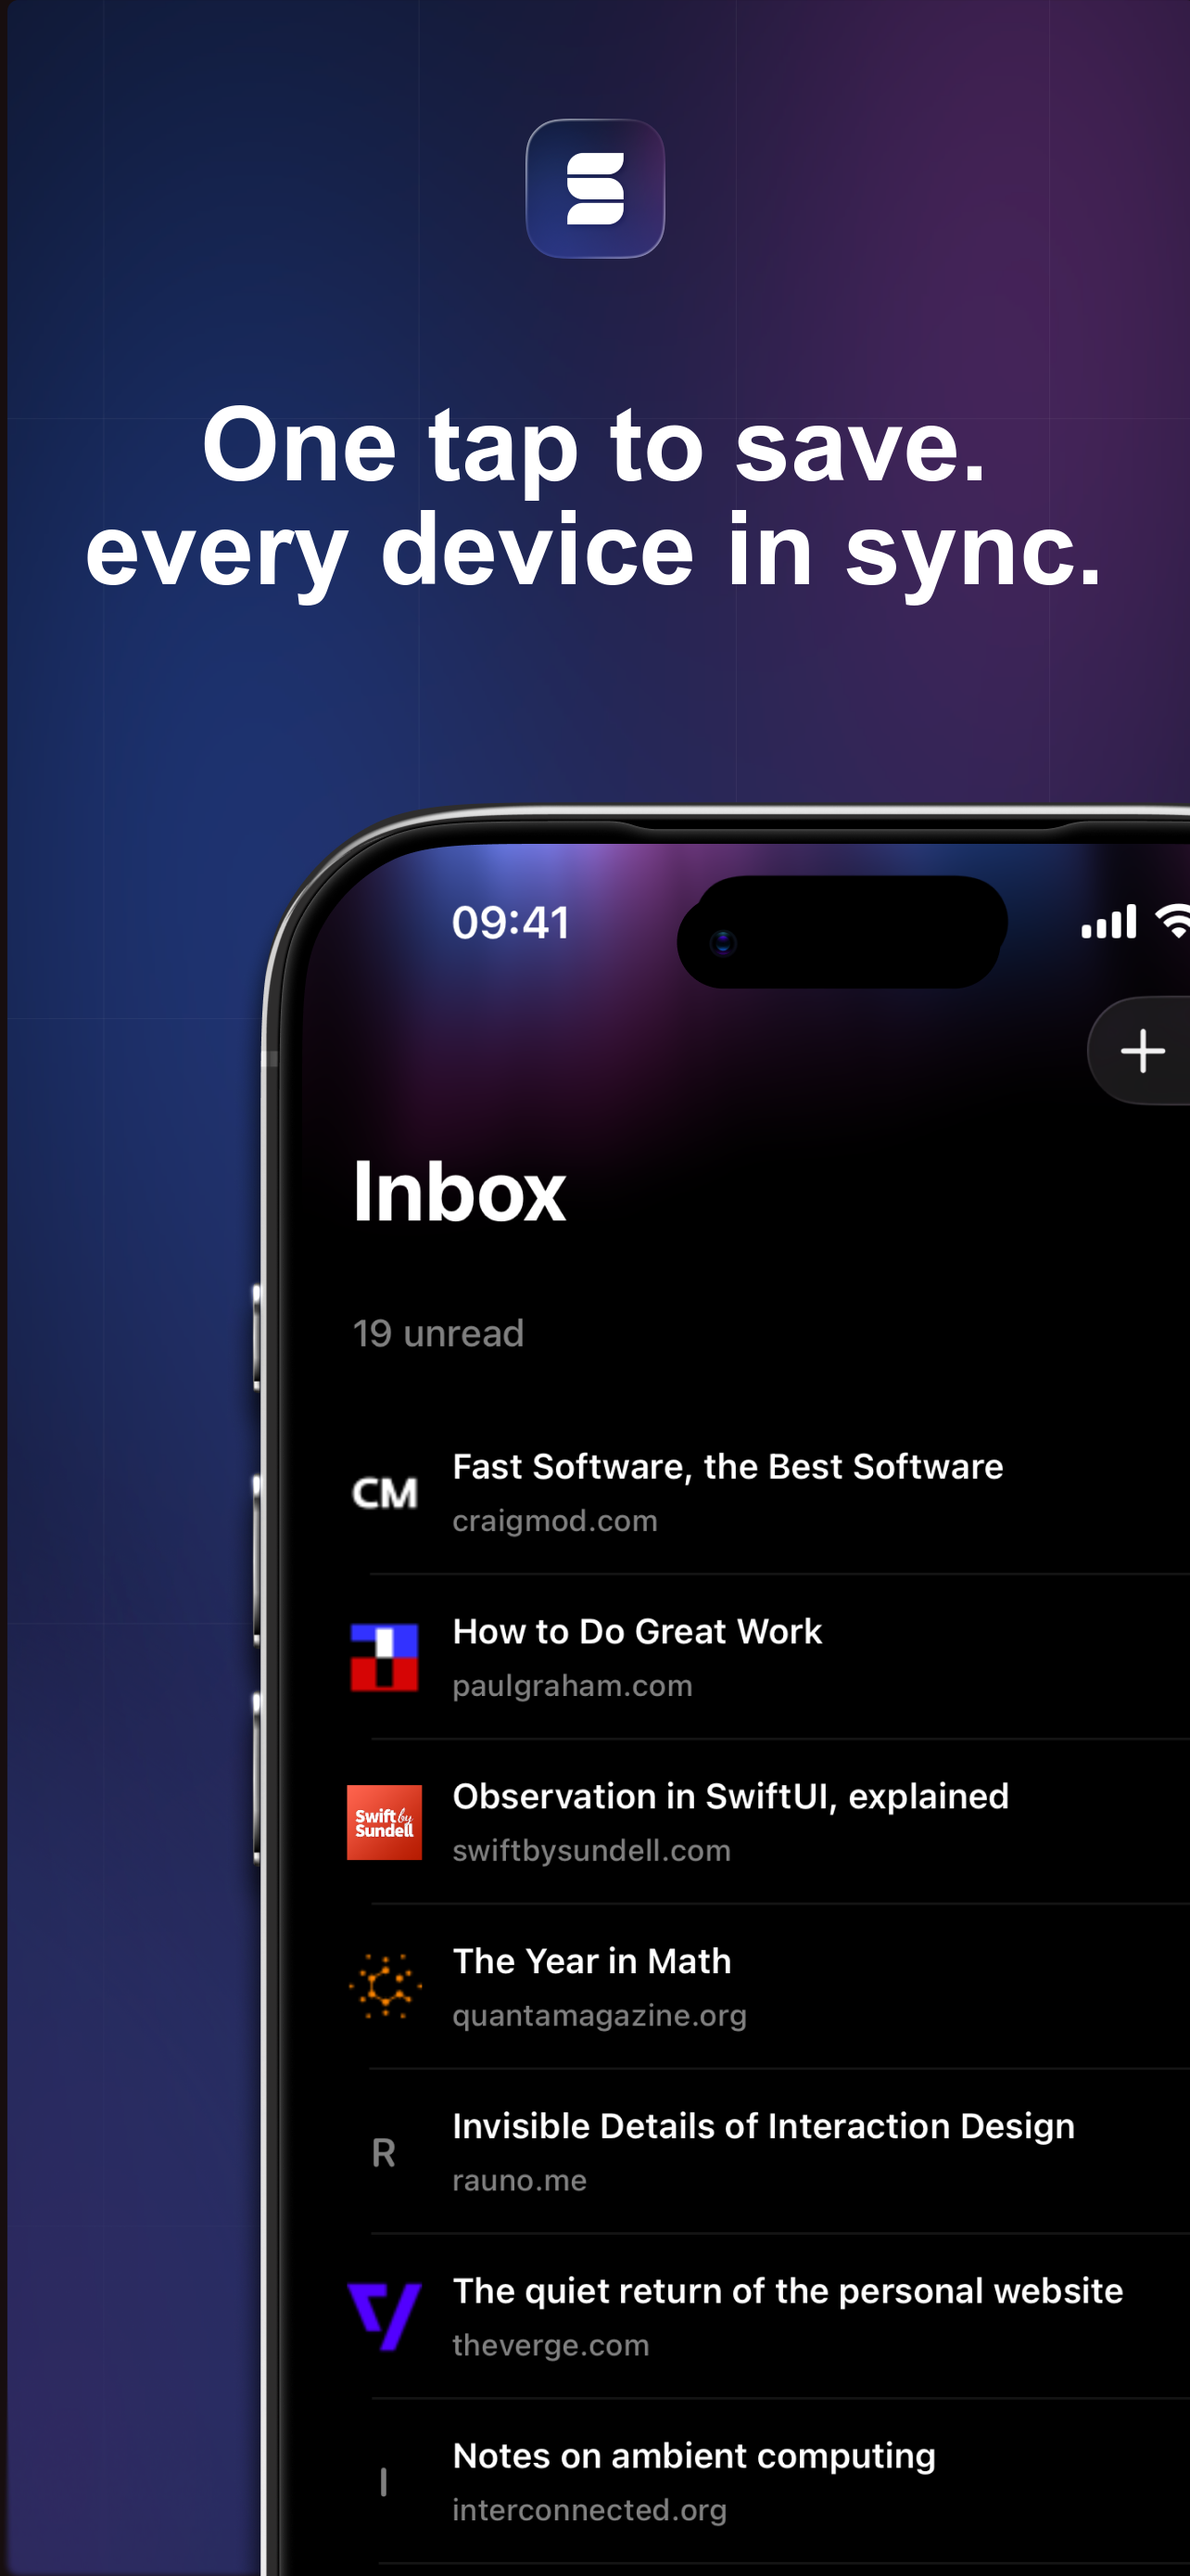
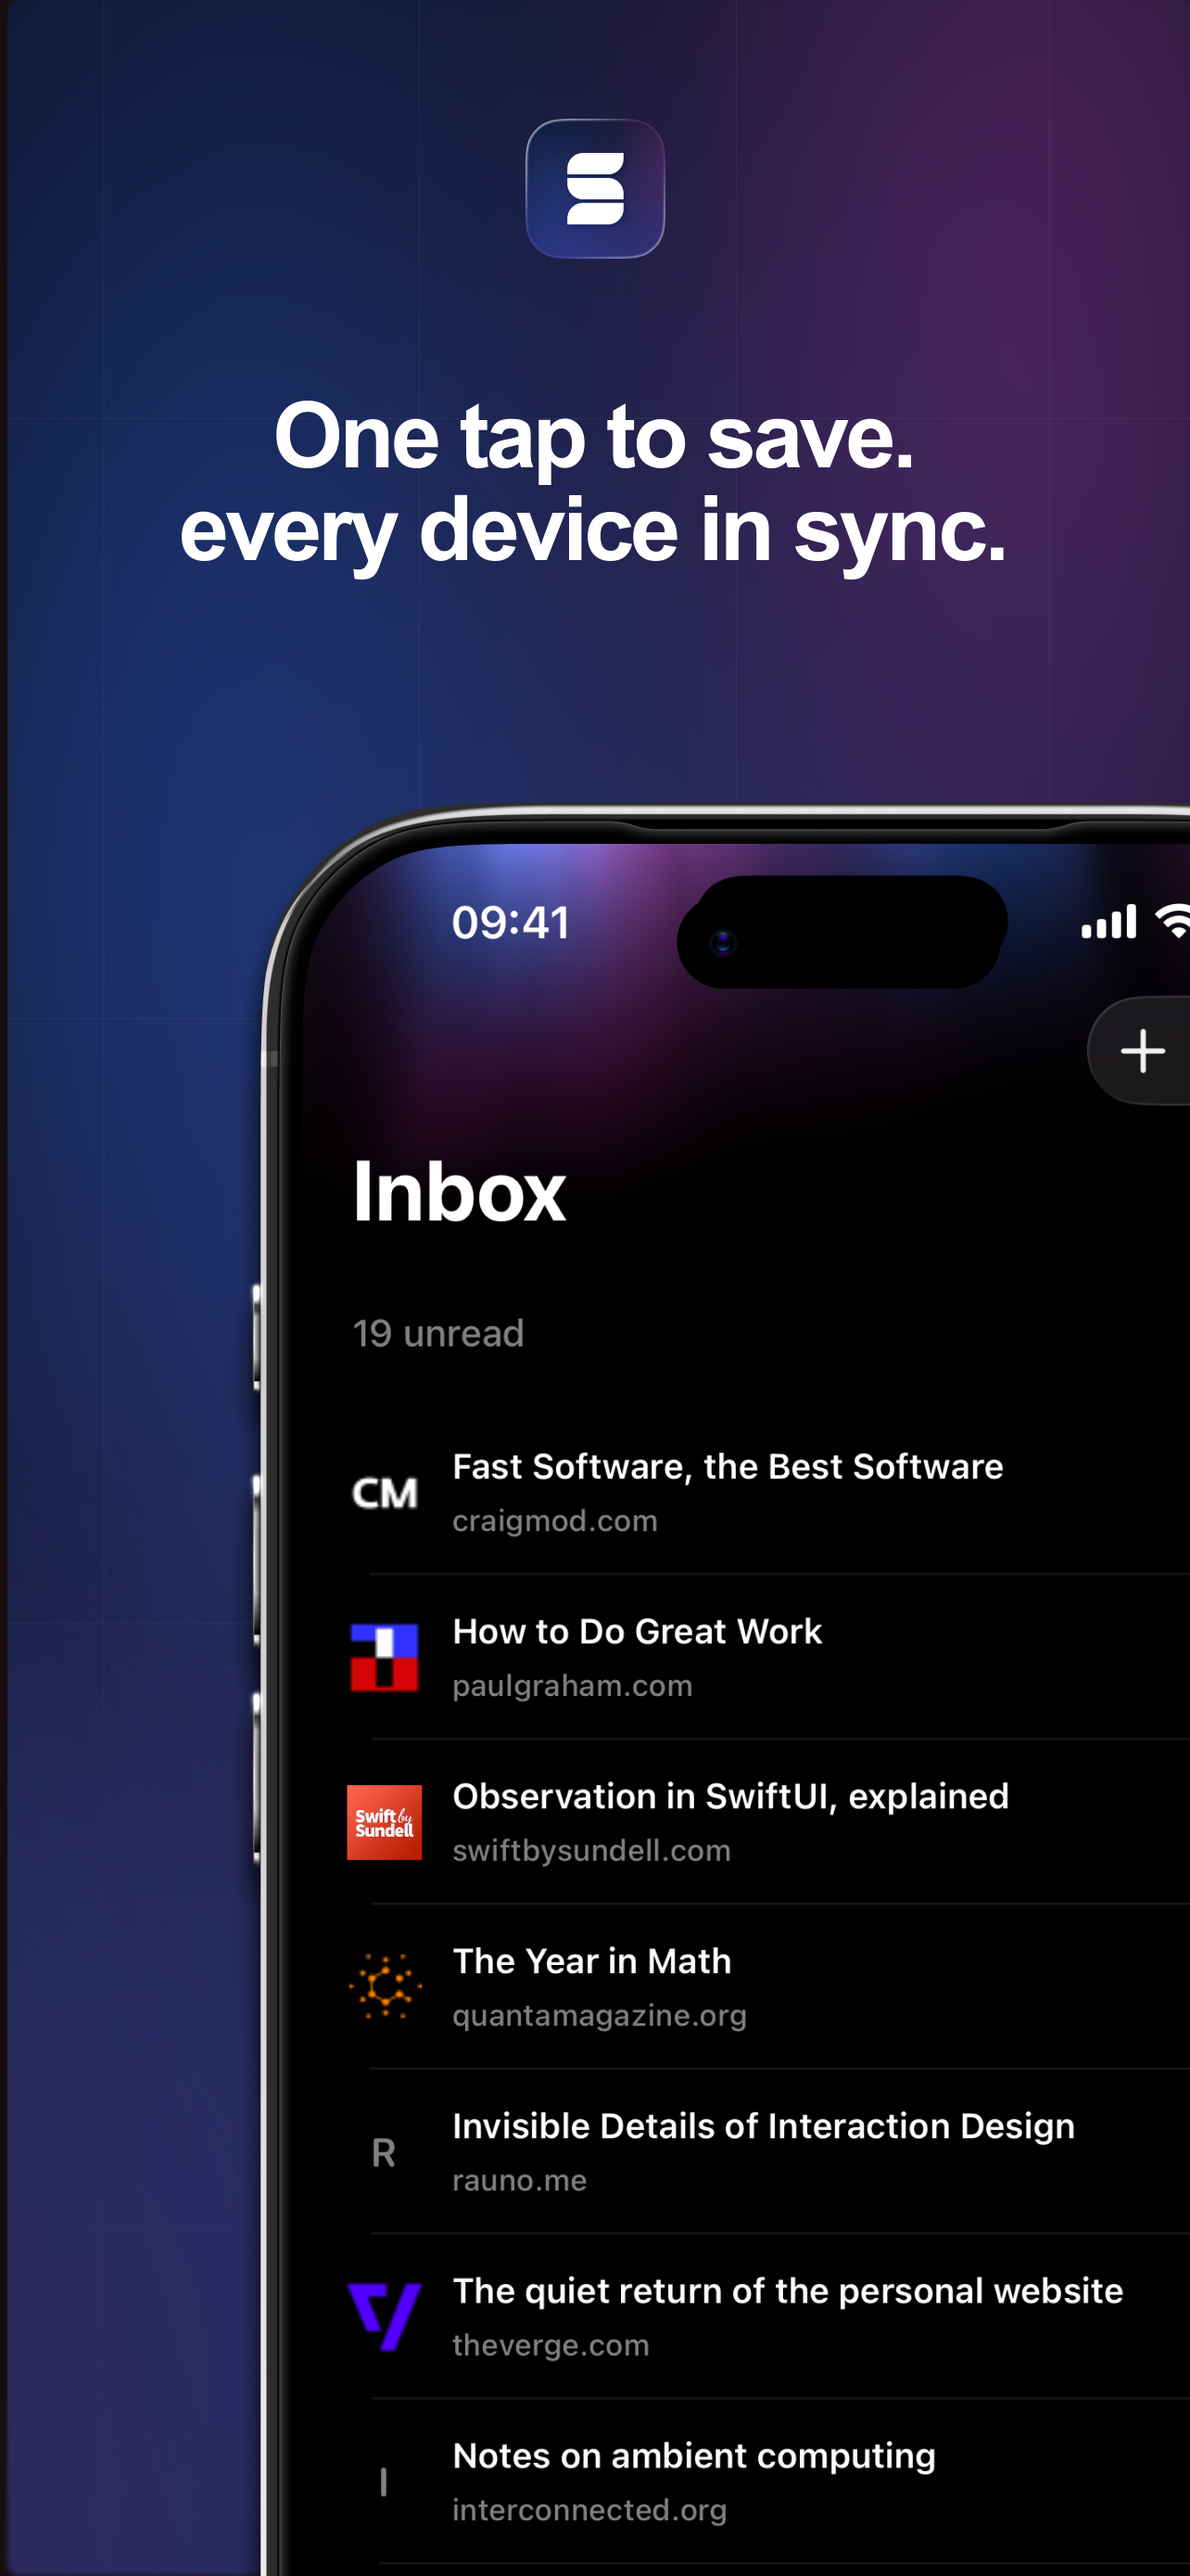
fix: add safe text bounds to localized screenshots

Changed region(s): [[0.0623, 0.1548, 0.9034, 0.2477]]

diff --git a/scripts/app-store-screenshots/README.md b/scripts/app-store-screenshots/README.md
@@ -19,4 +19,4 @@ app-store-screenshots/ipad/nl/01.png   … 05.png
 
 Add a locale by adding one object to `translations.json`; the renderer will produce both devices and all five screenshots automatically. The CLI also accepts an explicit locale list, for example `node scripts/app-store-screenshots/render.mjs en nl`.
 
-The renderer uses ImageMagick (`magick`) and the system `.SF NS` font to match the Figma SF Pro typography. The marketing copy is composited as SVG so line breaks, alignment, color, weight, and letter spacing stay data-driven.
+The renderer uses ImageMagick (`magick`) and the system `.SF NS` font to match the Figma SF Pro typography. Text is rasterized into a transparent overlay so ImageMagick's font weight and kerning are applied consistently. Each line is measured before rendering: Figma-style tighter tracking is applied, and the font size scales down proportionally to keep every translation inside an 88% safe area within its artboard text box.
